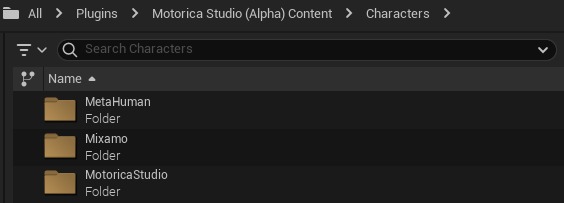
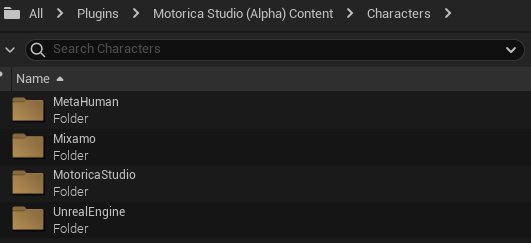
Update included assets info

Changed region(s): [[0.0, 0.1773, 0.9944, 0.8276], [0.0, 0.0296, 0.8437, 0.1182], [0.0, 0.8276, 0.3013, 0.9754]]

diff --git a/docs/user-guide/retargeting.md b/docs/user-guide/retargeting.md
@@ -22,36 +22,40 @@ Note: The folder names may be different depending on the plugin version you are 
 
 ![](../images/content-browser-folder-plugin-retargeting.png)
 
-- **BP_RuntimeRTG_Base** - A spawnable `Actor Blueprint` that sets up runtime retargeting between the Motorica skeleton and other skeletons. This blueprint serves as a base which other blueprints extend.
-- **LS_RuntimeRTG** - A `Level Sequence` asset demonstrating runtime retargeting from the Motorica skeleton to a set of Mixamo skeletons and MetaHuman skeletons.
+- **BP_RuntimeRTG_Base** - A spawnable `Actor Blueprint` that sets up runtime retargeting between the Motorica skeleton and other skeletons. This blueprint serves as a base which other blueprints can extend from.
+- **LS_RuntimeRTG** - A `Level Sequence` asset demonstrating runtime retargeting from the Motorica skeleton to a set of other skeletons.
 
-#### MetaHuman
+### MetaHuman
 ![](../images/content-browser-folder-plugin-retargeting-metahuman.png)
 
-- **ABP_MetaHuman_extended** - `Animation Blueprint` used for runtime retargeting from the Motorica skeleton to the MetaHuman skeleton. It uses the `RTG_MetaHuman_extended_MoStudio_minimal` IK Retargeter asset.
-- **ABP_MetaHuman_minimal** - `Animation Blueprint` used for runtime retargeting from the Motorica skeleton to the MetaHuman skeleton. It uses the `RTG_MetaHuman_minimal_MoStudio_minimal` IK Retargeter asset.
-- **BP_RuntimeRTG_MetaHuman_extended** - A spawnable `Actor Blueprint` that extends from `BP_RuntimeRTG_Base`. It sets up runtime retargeting from the Motorica skeleton to the MetaHuman skeleton using `ABP_MetaHuman_extended`.
-- **BP_RuntimeRTG_MetaHuman_minimal** - A spawnable `Actor Blueprint` that extends from `BP_RuntimeRTG_Base`. It sets up runtime retargeting from the Motorica skeleton to the MetaHuman skeleton using `ABP_MetaHuman_minimal`.
-- **IK_MetaHuman_extended** - `IK Rig` asset that configures the default MetaHuman skeleton for retargeting. It contains bone chains for the spine, legs, arms, head, root, and fingers. This is a slightly modified copy of the original MetaHuman IK Rig.
-- **IK_MetaHuman_minimal** - `IK Rig` asset that configures the default MetaHuman skeleton for retargeting. It contains bone chains for the spine, legs, arms, head and root, excluding fingers.
-- **RTG_MetaHuman_extended_MoStudio_minimal** - `IK Retargeter` asset that retargets from the `IK_MoStudio_minimal` IK Rig to the `IK_MetaHuman_extended` IK Rig. The source skeleton was adjusted to match the A-pose of the target skeleton. IK goals are disabled.
-- **RTG_MetaHuman_minimal_MoStudio_minimal** - `IK Retargeter` asset that retargets from the `IK_MoStudio_minimal` IK Rig to the `IK_MetaHuman_minimal` IK Rig. The source skeleton was adjusted to match the A-pose of the target skeleton.
+- **ABP_MetaHuman_MoStudio** - `Animation Blueprint` used for runtime retargeting from the Motorica skeleton to the MetaHuman skeleton. It uses the `RTG_metahuman_MoStudio` IK Retargeter asset.
+- **BP_RuntimeRTG_metahuman_MoStudio** - A spawnable `Actor Blueprint` that extends from `BP_RuntimeRTG_Base`. It sets up runtime retargeting from the Motorica skeleton to the MetaHuman skeleton using `ABP_metahuman_MoStudio`.
+- **IK_metahuman_MoStudio** - `IK Rig` asset that configures the default MetaHuman skeleton for retargeting. This is identical to the default MetaHuman IK Rig *(confirmed UE 5.2)*.
+- **RTG_metahuman_MoStudio** - `IK Retargeter` asset that retargets from the `IK_MoStudio` IK Rig to the `IK_metahuman_MoStudio` IK Rig. The MetaHuman retarget pose is edited to match the T-pose of the Motorica skeleton. IK retargeting is disabled.
 
-#### Mixamo
+### Mixamo
 ![](../images/content-browser-folder-plugin-retargeting-mixamo-mutant.png)
-
-All Mixamo characters share similar assets. The following assets are for the *Mixamo Mutant* character:
 
 - **ABP_Mixamo_Mutant** - `Animation Blueprint` used for runtime retargeting from the Motorica skeleton to the Mixamo Mutant skeleton. It uses the `RTG_Mixamo_Mutant` IK Retargeter asset.
 - **BP_RuntimeRTG_Mixamo_Mutant** - A spawnable `Actor Blueprint` that extends from `BP_RuntimeRTG_Base`. It sets up runtime retargeting from the Motorica skeleton to the Mixamo Mutant skeleton using `ABP_Mixamo_Mutant`.
 - **IK_Mixamo_Mutant** - `IK Rig` asset that configures the Mixamo Mutant skeleton for retargeting. It contains bone chains for the spine, legs, arms, head and root, excluding fingers.
 - **RTG_Mixamo_Mutant** - `IK Retargeter` asset that retargets from the `IK_MoStudio_minimal` IK Rig to the `IK_Mixamo_Mutant` IK Rig.
 
-#### MotoricaStudio
+The assets above are for the *Mixamo Mutant* character. Other mixamo characters have similar assets.
+
+### MotoricaStudio
 ![](../images/content-browser-folder-plugin-retargeting-motoricastudio.png)
 
-- **ABP_MoStudio_minimal** - `Animation Blueprint` used for runtime retargeting from the Motorica skeleton to itself. It uses the `RTG_MoStudio_minimal` IK Retargeter asset.
-- **BP_RuntimeRTG_MoStudio_minimal** - A spawnable `Actor Blueprint` that extends from `BP_RuntimeRTG_Base`. It sets up runtime retargeting from the Motorica skeleton to itself using `ABP_MoStudio_minimal`.
-- **IK_MoStudio_legacy** - This is the legacy `IK Rig` asset that was provided in *Motorica Studio v0.1.0*. It is included for compatibility purposes. The recommendation is to use `IK_MoStudio_minimal` instead. If you are using the old `IK_Motorica` IK Rig, you should update the references to this asset.
-- **IK_MoStudio_minimal** - `IK Rig` asset that configures the Motorica skeleton for retargeting. It contains bone chains for the spine, legs, arms, head and root, excluding fingers. This asset is commonly used in `IK Retargeter` assets as the retargeting *source*.
-- **RTG_MoStudio_minimal** - `IK Retargeter` asset that retargets from the `IK_MoStudio_minimal` IK Rig to itself. This is mainly used for debugging purposes.
+- **ABP_MoStudio** - `Animation Blueprint` used for runtime retargeting from the Motorica skeleton to itself. It uses the `RTG_MoStudio` IK Retargeter asset.
+- **BP_RuntimeRTG_MoStudio** - A spawnable `Actor Blueprint` that extends from `BP_RuntimeRTG_Base`. It sets up runtime retargeting from the Motorica skeleton to itself using `ABP_MoStudio`.
+- **IK_MoStudio** - `IK Rig` asset that configures the Motorica skeleton for retargeting. It contains bone chains for the root, hips, spine, legs, arms, and head, except fingers. For compatibility, some bones like the root and shoulders have multiple chains. Find the ones that work best for you target skeleton. You can also copy and tweak the bone chains to improve retargeting to your character. Most `IK Retargeter` assets in the plugin use this IK Rig as the *retargeting source*.
+- **IK_MoStudio_legacy** - This is the legacy `IK Rig` asset that was provided in *Motorica Studio v0.1.0* called `IK_Motorica`. You should use `IK_MoStudio` from now on. If you are using the old `IK_Motorica` IK Rig, update your references to point to `IK_MoStudio_legacy`.
+- **RTG_MoStudio** - `IK Retargeter` asset that retargets from the `IK_MoStudio` IK Rig to itself. This is mainly used for debugging purposes.
+
+### UE5 Mannequin
+![](../images/content-browser-folder-plugin-retargeting-ue5mannequin.png)
+
+- **ABP_Mannequin_MoStudio** - `Animation Blueprint` used for runtime retargeting from the Motorica skeleton to the UE5 mannequin skeleton. It uses the `RTG_Mannequin_MoStudio` IK Retargeter asset.
+- **BP_RuntimeRTG_Mannequin_MoStudio** - A spawnable `Actor Blueprint` that extends from `BP_RuntimeRTG_Base`. It sets up runtime retargeting from the Motorica skeleton to the UE5 mannequin skeleton using `ABP_Mannequin_MoStudio`.
+- **IK_Mannequin_MoStudio** - `IK Rig` asset that configures the default UE5 mannequin skeleton for retargeting. This is identical to the default UE5 mannequin IK Rig *(confirmed in UE 5.2)*.
+- **RTG_Mannequin_MoStudio** - `IK Retargeter` asset that retargets from the `IK_MoStudio` IK Rig to the `IK_Mannequin_MoStudio` IK Rig. The UE5 mannequin retarget pose is edited to match the T-pose of the Motorica skeleton. IK retargeting is disabled.

diff --git a/docs/user-guide/included-assets.md b/docs/user-guide/included-assets.md
@@ -25,9 +25,10 @@ Contains assets (textures, skeleton, materials, etc.) of various characters that
 
 ![](../images/content-browser-folder-plugin-characters.png)
 
-- **MetaHuman** - Added for support of MetaHuman retargeting. Includes the default male / female body meshes. When retargeting, this character would be the retarget *Target*.
-- **Mixamo** - Use these to preview how animations are affected when applied to different body proportions. When retargeting, this character would be the retarget *Target*.
-- **MotoricaStudio** - This is the default character used throughout the plugin. All MoGen-generated animations are applied to the skeleton of this character by default. When retargeting, this character would be the retarget *Source*.
+- **MetaHuman** - (Target skeleton) Used for retargeting to MetaHuman characters. Includes the default male body mesh. (Other meshes are not included to keep the plugin file small.)
+- **Mixamo** - (Target skeleton) Used for retargeting to Mixamo characters. Multiple characters are included with different body proportions.
+- **MotoricaStudio** - (Source skeleton) This is the default Motorica Studio character from which animations are retargeted. All MoGen-generated animations are applied to this character by default.
+- **UnrealEngine** - (Target skeleton) Used for retargeting to UE5 mannequin. Includes the default male / female body meshes.
 
 ## Internal
 ![](../images/content-browser-folder-plugin-internal.png)
